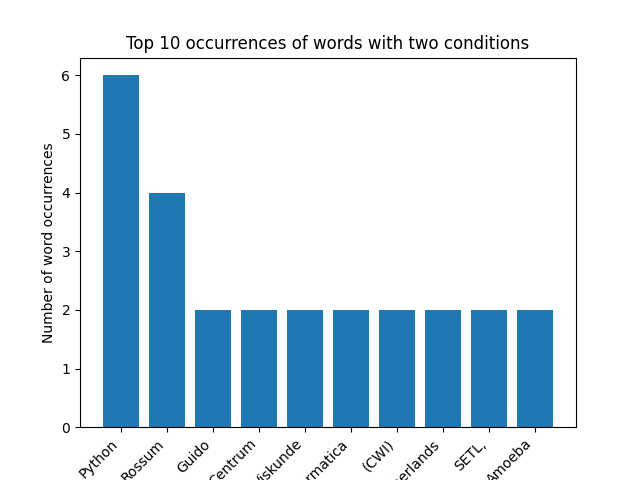
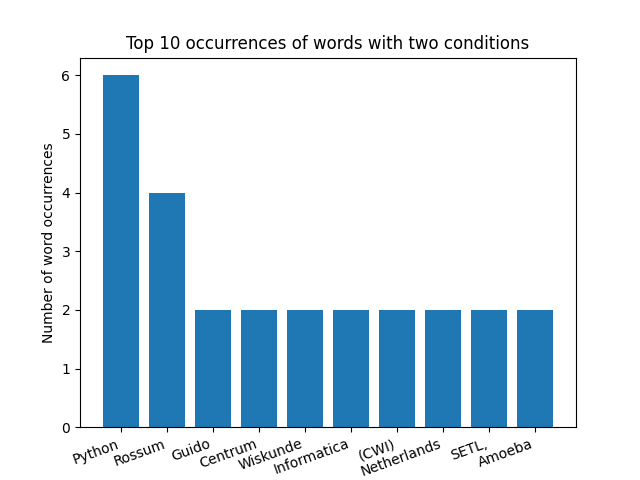
change

Changed region(s): [[0.0938, 0.9062, 0.8438, 1.0]]

diff --git a/main.py b/main.py
@@ -65,7 +65,7 @@ x, y = zip(*most_common)
 
 plt.bar(x, y)
 plt.xlabel('x')
-plt.xticks(rotation=45, ha='right')
+plt.xticks(rotation=20, ha='right')
 plt.ylabel('Number of word occurrences')
 plt.title('Top 10 occurrences of words with two conditions')
 plt.savefig('Top 10 occurrences of words with two conditions')
